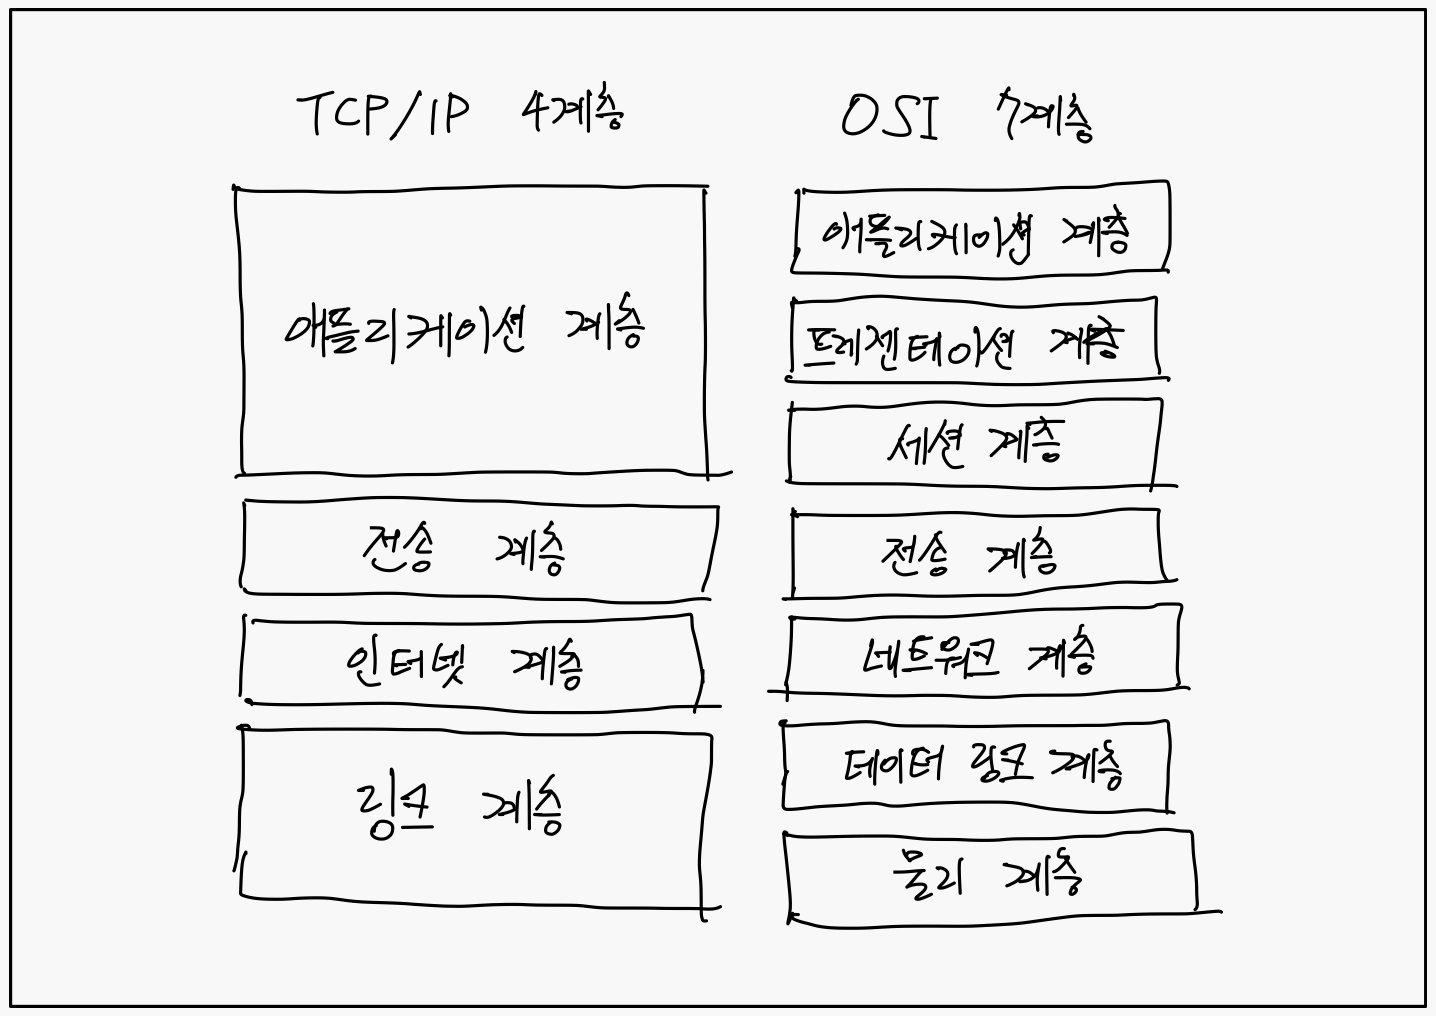
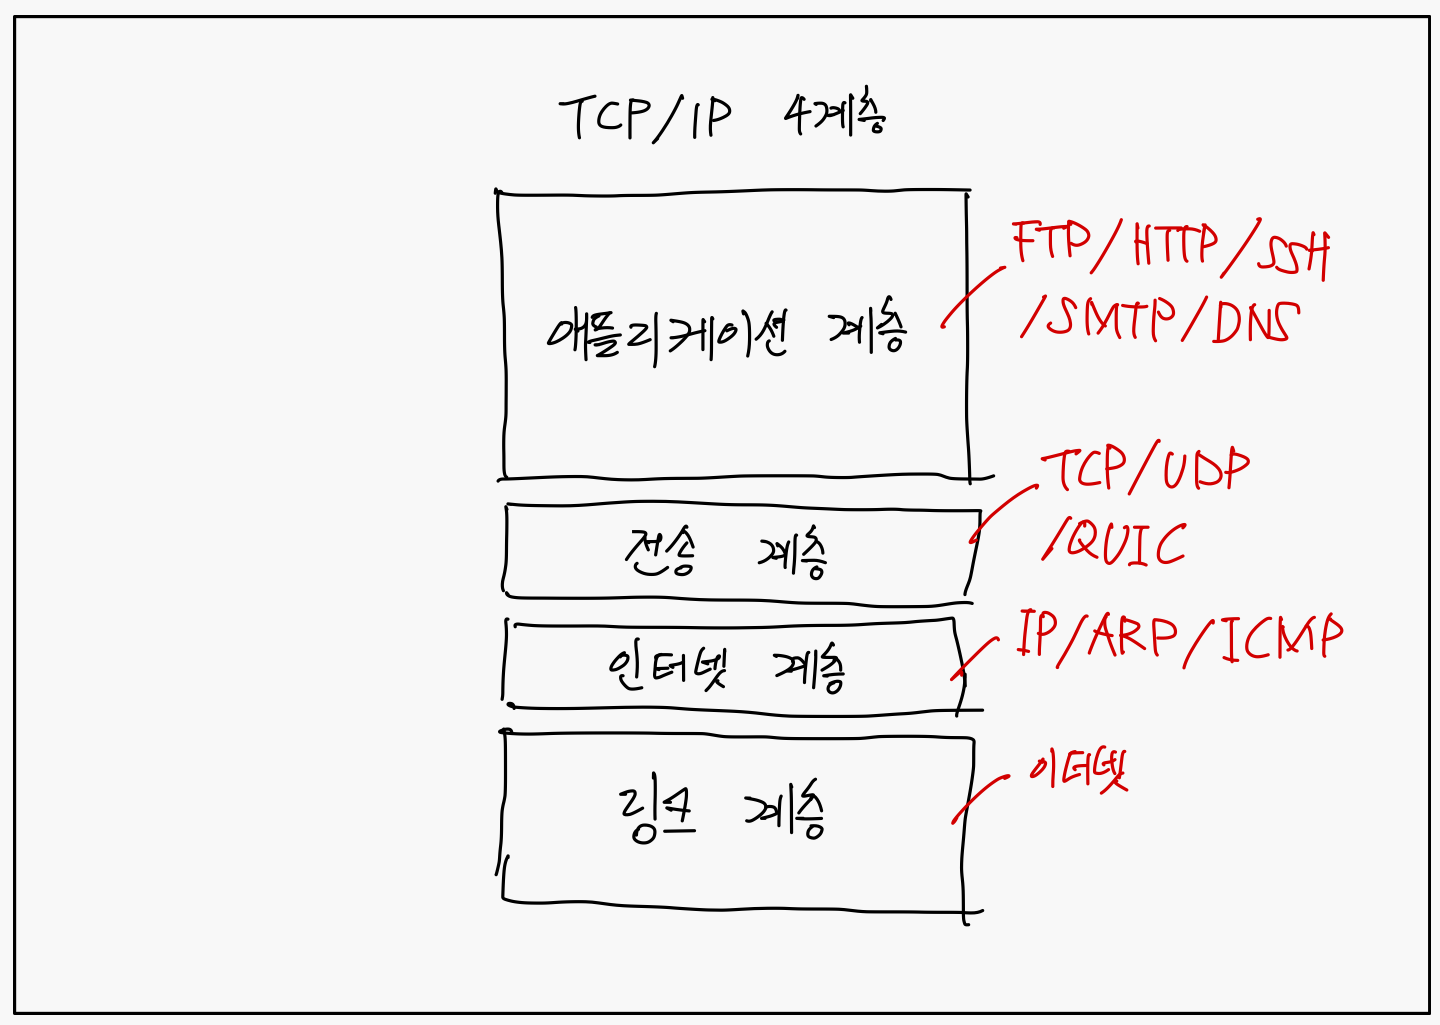
내용추가 : 계층 구조

diff --git a/Computer Science/Network/계층 구조/index.md b/Computer Science/Network/계층 구조/index.md
@@ -2,8 +2,6 @@
 
 TCP/IP 계층은 네 개의 계층을 가지고 있으며 OSI 7계층과 많이 비교합니다.
 
-![alt text](image.png)
-
 ![alt text](image-1.png)
 
 위의 그림처럼 TCP/IP 계층과 달리 OSI 계층은 애플리케이션 계층을 세 개로 쪼개고 링크 계층을 데이터 링크 계층, 물리 계층으로 나눠서 표현하는 것이 다르며, 인터넷 계층을 네트워크 계층으로 부른다는 점이 다릅니다.
@@ -11,3 +9,49 @@ TCP/IP 계층은 네 개의 계층을 가지고 있으며 OSI 7계층과 많이 
 이 계층들은 특정 계층이 변경되었을 때 다른 계층이 영향을 받지 않도록 설계되었습니다. 예를 들어 전송 계층에서 TCP를 UDP로 변경했다고 해서 인터넷 웹 브라우저를 다시 설치해야 하는 것은 아니듯 유연하게 설계된 것이죠.,
 
 각 계층을 대표하는 스택을 정리한 그림입니다.
+
+![alt text](image.png)
+
+## 애플리케이션 계층
+
+애플리케이션(application) 계층은 FTP, HTTP, SSH, SMTP, DNS 등 응용 프로그램이 사용되는 프로토콜 계층이며 웹 서비스, 이메일 등 서비스를 실질적으로 사람들에게 제공하는 층입니다.
+
+> **FTP**
+>
+> 장치와 장치 간의 파일을 전송하는 데 사용되는 표준 통신 프로토콜
+
+> **SSH**
+>
+> 보안되지 않은 네트워크에서 네트워크 서비스를 안전하게 운영하기 위한 암호화 네트워크 프로토콜
+
+> **HTTP**
+>
+> World Wide Web을 위한 데이터 통신의 기초이자 웹 사이트를 이용하는 데 쓰는 프로토콜
+
+> **SMTP**
+>
+> 전자 메일 전송을 위한 인터넷 표준 통신 프로토콜
+
+> **DNS**
+>
+> 도메인 이름과 IP 주소를 매핑해주는 서버
+
+## 전송 계층
+
+전송(transport) 계층은 송신자와 수신자를 연결하는 통신 서비스를 제공하며 연결 지향 데이터 스트림 지원, 신뢰성, 흐름 제어를 제공할 수 있으며 애플리케이션과 인터넷 계층 사이의 데이터가 전달될 때 중계 역할을 합니다. 대표적으로 TCP와 UDP가 있습니다.
+
+TCP는 패킷 사이의 순서를 보장하고 연결지향 프로토콜을 사용해서 연결을 하여 신뢰성을 구축해서 수신 여부를 확인하며 '가상회선 패킷 교환 방식'을 사용합니다.
+
+UDP는 순서를 보장하지 않고 수신 여부를 확인하지 않으며 단순히 데이터만 주는 '데이터그램 패킷 교환 방식'을 사용합니다.
+
+### 가상회선 패킷 교환 방식
+
+가상회선 패킷 교환 방식은 각 패킷에는 가상회선 식별자가 포함되며 모든 패킷을 전송하면 가상회선이 해제되고 패킷들은 전송된 '순서대로' 도착하는 방식을 말합니다.
+
+### 데이터그램 패킷 교환 방식
+
+데이터그램 패킷 교환 방식이란 패킷이 독립적으로 이동하며 최적의 경로를 선택하여 가는데, 하나의 메시지에서 분할된 여러 패킷은 서로 다른 경로로 전송될 수 있으며 도착한 '순서가 다를 수' 있는 방식을 뜻합니다.
+
+### TCP 연결 성립 과정
+
+TCP는 신뢰성을 확보할 때 '3-웨이 핸드셰이크(3-way handshake)'라는 작업을 진행합니다.
